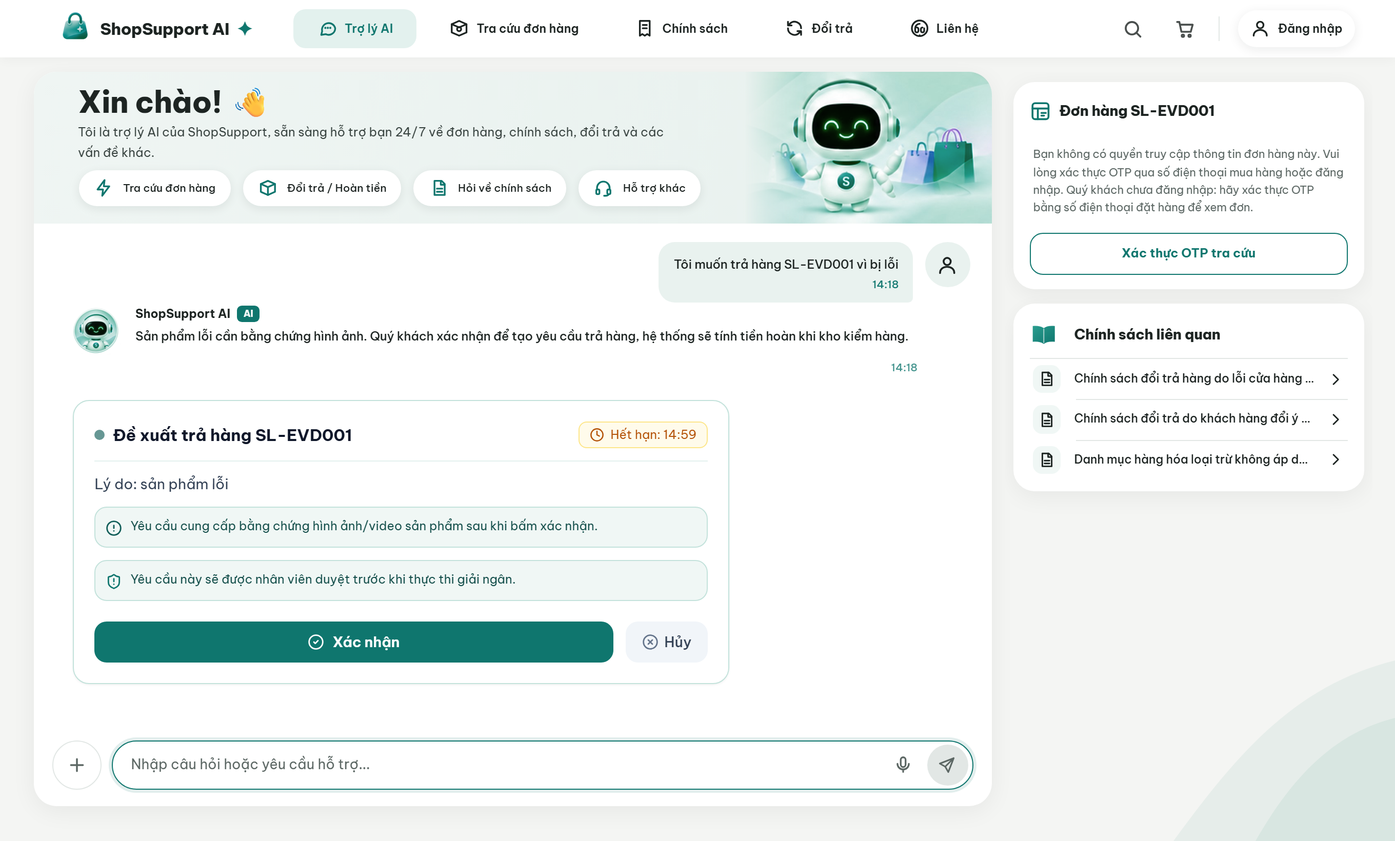
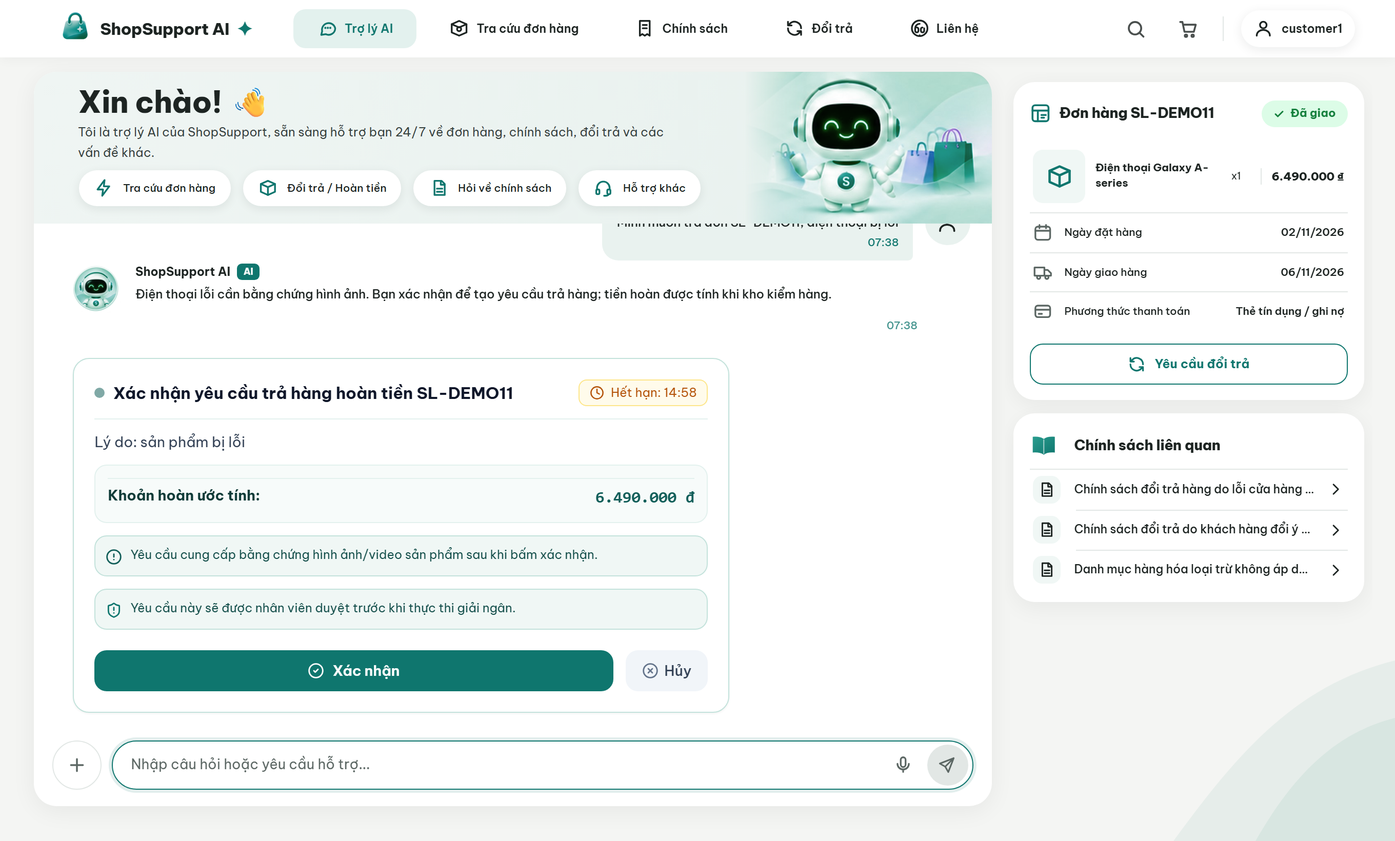
docs: README with real screenshots, architecture diagrams and measured results
- eight screenshots from the running app with seeded demo data (npm run shots), real API, scripted assistant wording
- sequence, state and retrieval diagrams; refund approval table
- measured results: oracle / null / Gemini on 62 scenarios, grounding, retrieval and the candidate-count trade-off, with an explicit list of what the numbers do not show
- header logo no longer wraps when the staff tab is present

diff --git a/frontend/tests/shots/readme-shots.spec.ts b/frontend/tests/shots/readme-shots.spec.ts
@@ -1,23 +1,98 @@
-import { test } from '@playwright/test';
+// Screenshots for README.md. Real API and seeded demo data (run `shopagent.cli seed` first); only the
+// assistant's replies are scripted, so no Gemini quota is spent and every shot is reproducible.
+//   npm run shots
+import { Page, test } from '@playwright/test';
 import { json, mockConversation, pendingAction } from '../e2e/helpers';
 
 const OUT = '../docs/images';
+const INPUT = 'Nhập câu hỏi hoặc yêu cầu hỗ trợ...';
+
+async function signIn(page: Page, email: string, password: string, staff: boolean) {
+  await page.goto('/');
+  await page.locator('button.login').click();
+  if (staff) await page.getByRole('dialog').getByRole('button', { name: /nhân viên/i }).first().click();
+  await page.locator('#login-email').fill(email);
+  await page.locator('#login-password').fill(password);
+  await page.getByRole('dialog').locator('button[type=submit]').click();
+  await page.locator('#login-email').waitFor({ state: 'detached' });
+}
+
+async function say(page: Page, conversation: string, text: string, reply: Record<string, unknown>) {
+  await page.route(`**/api/conversations/${conversation}/messages`, (r) => json(r, { status: 'success', citations: [], ...reply }));
+  const input = page.getByPlaceholder(INPUT);
+  await input.fill(text);
+  await input.press('Enter');
+}
+
+test('policy answer with a citation, then the clause it points to', async ({ page }) => {
+  await mockConversation(page, 'shot-policy');
+  await page.goto('/');
+  await say(page, 'shot-policy', 'Đổi ý trả hàng thì được trong bao nhiêu ngày?', {
+    citations: ['POL-RETURN-02'],
+    assistant_message:
+      'Với hàng không lỗi, bạn có thể đổi ý và trả hàng trong 7 ngày kể từ khi nhận hàng [POL-RETURN-02]. Hàng thuộc danh mục loại trừ như mỹ phẩm đã mở seal thì không áp dụng [POL-RETURN-03].',
+  });
+  await page.getByText('Với hàng không lỗi').waitFor();
+  await page.waitForTimeout(700);
+  await page.screenshot({ path: `${OUT}/chat-policy.png` });
+
+  await page.locator('button', { hasText: 'POL-RETURN-02' }).first().click();
+  await page.getByRole('dialog').waitFor();
+  await page.waitForTimeout(700);
+  await page.screenshot({ path: `${OUT}/citation-modal.png` });
+});
+
+test('customer: order card with the real order and its timeline', async ({ page }) => {
+  await mockConversation(page, 'shot-order');
+  await signIn(page, 'customer1@example.com', 'pass123', false);
+  await say(page, 'shot-order', 'Đơn SL-DEMO06 của mình giao tới đâu rồi?', {
+    assistant_message: 'Đơn **SL-DEMO06** đã giao thành công. Nếu cần, bạn có thể tạo yêu cầu đổi trả bên dưới.',
+  });
+  await page.locator('.order-card, [class*="oc"]').first().waitFor({ timeout: 15000 }).catch(() => undefined);
+  await page.getByText('Tạo yêu cầu đổi trả').first().waitFor({ timeout: 15000 });
+  await page.waitForTimeout(900);
+  await page.screenshot({ path: `${OUT}/chat-order.png` });
+});
 
 test('customer: return proposal awaiting confirmation', async ({ page }) => {
-  await mockConversation(page, 'c2');
-  await page.route('**/api/conversations/c2/messages', (r) =>
-    json(r, {
-      status: 'success',
-      citations: [],
-      assistant_message: 'Sản phẩm lỗi cần bằng chứng hình ảnh. Quý khách xác nhận để tạo yêu cầu trả hàng, hệ thống sẽ tính tiền hoàn khi kho kiểm hàng.',
-      pending_action: pendingAction('c2', { id: 'act-1', type: 'return', title: 'Đề xuất trả hàng SL-EVD001', description: 'Lý do: sản phẩm lỗi', extra: { requires_evidence: true, requires_approval: true } }),
-    })
-  );
-  await page.goto('/');
-  const input = page.getByPlaceholder('Nhập câu hỏi hoặc yêu cầu hỗ trợ...');
-  await input.fill('Tôi muốn trả hàng SL-EVD001 vì bị lỗi');
-  await input.press('Enter');
+  await mockConversation(page, 'shot-proposal');
+  await signIn(page, 'customer1@example.com', 'pass123', false);
+  await say(page, 'shot-proposal', 'Mình muốn trả đơn SL-DEMO11, điện thoại bị lỗi', {
+    assistant_message: 'Điện thoại lỗi cần bằng chứng hình ảnh. Bạn xác nhận để tạo yêu cầu trả hàng; tiền hoàn được tính khi kho kiểm hàng.',
+    pending_action: pendingAction('shot-proposal', {
+      id: 'act-shot',
+      type: 'return_request',
+      title: 'Xác nhận yêu cầu trả hàng hoàn tiền SL-DEMO11',
+      description: 'Lý do: sản phẩm bị lỗi',
+      extra: { order_code: 'SL-DEMO11', requires_evidence: true, requires_approval: true, estimated_refund_vnd: 6490000 },
+    }),
+  });
   await page.getByText('Yêu cầu cung cấp bằng chứng hình ảnh/video').waitFor();
-  await page.waitForTimeout(600);
+  await page.waitForTimeout(900);
   await page.screenshot({ path: `${OUT}/customer-proposal.png` });
+});
+
+test('staff: approval queue, warehouse, takeover and metrics', async ({ page }) => {
+  await mockConversation(page, 'shot-staff');
+  await signIn(page, 'supervisor@shop.vn', 'staff123', true);
+  await page.getByRole('button', { name: 'Nhân viên' }).click();
+  await page.getByText(/Cổng:/).first().waitFor();
+  await page.waitForTimeout(700);
+  await page.screenshot({ path: `${OUT}/staff-approvals.png` });
+
+  await page.getByRole('button', { name: /Kho hàng trả về/ }).click();
+  await page.getByText(/RT-DEMO/).first().waitFor();
+  await page.waitForTimeout(500);
+  await page.screenshot({ path: `${OUT}/staff-warehouse.png` });
+
+  await page.getByRole('button', { name: /Phiếu & Hội thoại/ }).click();
+  await page.getByText('TK-DEMO01').first().waitFor();
+  await page.getByText('TK-DEMO01').first().click();
+  await page.waitForTimeout(1500);
+  await page.screenshot({ path: `${OUT}/staff-takeover.png` });
+
+  await page.getByRole('button', { name: /Vận hành/ }).click();
+  await page.getByText(/theo trạng thái/).first().waitFor();
+  await page.waitForTimeout(500);
+  await page.screenshot({ path: `${OUT}/staff-metrics.png` });
 });

diff --git a/frontend/src/styles/shopsupport.css b/frontend/src/styles/shopsupport.css
@@ -10,7 +10,7 @@ body:after{content:"";position:fixed;right:0;bottom:0;width:416px;height:208px;p
 :where(.ss) svg{width:1em;height:1em;stroke:currentColor;fill:none;stroke-width:2.1;stroke-linecap:round;stroke-linejoin:round;flex:none}
 :where(.ss) button{font:inherit;color:inherit;cursor:pointer;border:0;background:none}
 .ss header{height:56px;background:var(--card);display:flex;align-items:center;padding:0 39.2px 0 54.4px;gap:6.4px;box-shadow:0 1.6px 11.2px rgba(var(--sh),0.042);position:relative;z-index:5}
-.ss .logo{display:flex;align-items:center;gap:8px;font-weight:800;font-size:16px;margin-right:34.4px;letter-spacing:-.24px}
+.ss .logo{white-space:nowrap;flex:none;display:flex;align-items:center;gap:8px;font-weight:800;font-size:16px;margin-right:34.4px;letter-spacing:-.24px}
 .ss .logo img{width:38.4px;height:38.4px;margin:-5.6px -3.2px 0 0;filter:hue-rotate(-100deg) saturate(.9) brightness(.9)}
 .ss .logo .pl{color:var(--p);font-size:17.6px;font-weight:700}
 .ss nav{display:flex;gap:8.8px;flex:1}

diff --git a/README.md b/README.md
@@ -12,11 +12,33 @@ A customer-support agent for e-commerce. It answers policy questions with retrie
 
 > **Simulated by default.** Payments, carrier tracking and SMS/OTP run against built-in simulators (`INTEGRATION_MODE=simulated`); no money moves. There are no real VNPay or SMS adapters yet. See [integration modes](docs/integration-modes.md).
 
+## At a glance
+
+| | |
+|---|---|
+| **Agent** | LangGraph, 5 nodes, one agent with 11 tools; Gemini; deterministic guards around the model |
+| **Retrieval** | BM25 + BGE-M3 candidates, cross-encoder rerank, calibrated refusal of out-of-scope questions |
+| **Backend** | FastAPI, PostgreSQL (SQLite for local use), transactional outbox, SSE with replay |
+| **Frontend** | React + Vite + Tailwind: customer chat and staff portal |
+| **Agent quality** | 62/62 on the 62 development scenarios with real Gemini; 0 unauthorized financial actions; 35 independent scenarios not yet run ([evidence and limits](#measured-results)) |
+| **Tests** | 396 backend tests, 30 frontend unit tests, 17 browser journeys |
+
+## What it looks like
+
+All screenshots come from the running application with the seeded demo data (`npm --prefix frontend run shots`). Only the assistant's wording is scripted, so they can be regenerated without spending any model quota.
+
+| | |
+|---|---|
+| ![Policy answer with citations](docs/images/chat-policy.png) **Policy answers cite their source.** Every `[POL-…]` is checked against the clauses the retrieval step actually returned. | ![Clause shown on click](docs/images/citation-modal.png) **A citation opens the real clause**, with its version and effective date. |
+| ![Order card](docs/images/chat-order.png) **Order lookup.** Order data and the delivery timeline come from the database, not from the model's text. | ![Return proposal](docs/images/customer-proposal.png) **Proposal card.** It states what will happen and whether evidence or approval is needed; nothing runs until the customer presses Confirm. |
+| ![Approval queue](docs/images/staff-approvals.png) **Approval queue.** Each request shows the order, the amount and the role it needs; a 6.49 M VND refund waits for a supervisor. | ![Warehouse](docs/images/staff-warehouse.png) **Warehouse.** Receive a returned parcel, then record the inspection that creates the refund. |
+| ![Takeover](docs/images/staff-takeover.png) **Human takeover.** Staff read the real thread, reply to the customer and hand the conversation back to the assistant. | ![Operations](docs/images/staff-metrics.png) **Operations.** Counts come from the database (supervisor and admin only). |
+
 ## Design guarantees
 
-- **Proposals, not actions.** `propose_*` tools create a `PendingAction` with a `preview_hash` and a 30-minute expiry. Only `POST /actions/{id}/confirm` executes it, after re-validating the order, the policy window and the refund amount.
-- **Approval scales with risk.** Refunds up to 500,000 VND are automatic, up to 2,000,000 VND need a support agent, and anything above that or carrying a risk flag needs a supervisor. The staff member who inspects a returned parcel cannot approve the refund they created (four-eyes).
-- **Grounded answers.** Before a reply is shown, deterministic guards check that every policy citation `[POL-…]`, amount, order code and "done" claim is backed by a successful tool result, and that tool arguments (order, item, reason, exchange SKU) came from the customer or a tool, never from a guess. Failing replies are replaced, not shown.
+- **Proposals, not actions.** `propose_*` tools create a `PendingAction` with a `preview_hash` and a 30-minute expiry (`pending_action_ttl_minutes`). Only `POST /actions/{id}/confirm` executes it, after re-validating the order, the policy window and the refund amount.
+- **Approval scales with risk.** Refunds up to 500,000 VND are automatic, up to 2,000,000 VND need a support agent, and anything above that or carrying a risk flag needs a supervisor. A return whose reason requires photos cannot pass the first gate until they are uploaded. The staff member who inspects a returned parcel cannot approve the refund they created (four-eyes).
+- **Grounded answers.** Before a reply is shown, deterministic guards check that every policy citation `[POL-…]`, amount, order code and "done" claim is backed by a successful tool result, and that tool arguments (order, item, reason, exchange SKU) came from the customer or a tool, never from a guess. A draft that fails is sent back to the model once to be fixed; if it still fails it is replaced, never shown.
 - **Bounded turns.** A turn has limits on steps, tool calls and wall-clock time. It always ends with a grounded answer, a clarifying question, or an explicit error, including when the model times out or is rate-limited.
 - **Safe by construction.** Idempotency keys on writes, atomic message and event sequencing, owner checks at the service layer, prompt-injection screening, and masking of card and national-ID numbers before the model or the stored history sees them. See the [threat model](docs/threat-model.md).
 
@@ -58,15 +80,77 @@ flowchart LR
     PE --> SSE
 ```
 
-**One turn:** `load_context` loads the principal, clock and pending proposal → `screen_input` blocks injection and masks card numbers → `agent` runs the bounded tool loop with deterministic guards outside the model → `verify_output` checks citations, numbers and completion claims → `persist_emit` stores the messages and emits SSE events.
+Layers depend inward: `api → agent → domain ← infra`, with `core` shared. The domain layer has no LLM dependency, so the rules that move money can be tested without a model. Details: [architecture](docs/architecture.md), [decision records](docs/adr/).
 
-**One write:** the agent creates a proposal → the customer confirms it → the service re-checks and computes the refund → an approval request is created if the amount or risk requires it → the state change and an outbox event commit in one transaction → the worker disburses and the reconciler settles stuck payments.
+### One turn
 
-Layers depend inward: `api → agent → domain ← infra`, with `core` shared. The domain layer has no LLM dependency. Details: [architecture](docs/architecture.md), [decision records](docs/adr/).
+```mermaid
+sequenceDiagram
+    participant C as Customer
+    participant A as API
+    participant G as Graph
+    participant M as Gemini
+    participant T as Tools / domain
+    C->>A: message (X-Idempotency-Key)
+    A->>G: invoke(thread = conversation)
+    G->>G: load_context, screen_input (injection, PII masking)
+    loop bounded: steps, tool calls, seconds
+        G->>M: messages + tool schemas
+        M-->>G: tool call or draft answer
+        G->>T: run tool (read or propose only)
+        T-->>G: result, classified succeeded / negative / failed
+        Note over G: guards run here, outside the model:<br/>required tools, grounded arguments,<br/>no duplicate proposal, claims backed by evidence
+    end
+    G->>G: verify_output (citations, numbers, completion claims)
+    G->>A: persist_emit (messages + events in one transaction)
+    A-->>C: answer, proposal card, SSE events
+```
+
+### One write
+
+```mermaid
+stateDiagram-v2
+    [*] --> Proposed: propose_* tool (preview_hash, expiry)
+    Proposed --> Expired: lifetime elapsed
+    Proposed --> Cancelled: customer declines
+    Proposed --> Confirmed: customer confirms, service re-checks
+    Confirmed --> GateA: reason needs review
+    Confirmed --> AwaitingReturn: auto-approved
+    GateA --> AwaitingReturn: agent approves (evidence present)
+    GateA --> Rejected: agent rejects
+    AwaitingReturn --> Received: warehouse receives parcel
+    Received --> Inspected: inspection creates the refund
+    Inspected --> Refunded: within auto limit
+    Inspected --> GateB: above limit or risk flag
+    GateB --> Refunded: approver is not the inspector
+    GateB --> Rejected: approver rejects
+    Refunded --> [*]: outbox worker disburses, reconciler settles
+```
+
+| Refund amount | Approval |
+|---|---|
+| up to 500,000 VND, no risk flag | automatic |
+| up to 2,000,000 VND | support agent |
+| above 2,000,000 VND, or any risk flag | supervisor |
+
+The limits live in [config/policy/rules.yaml](config/policy/rules.yaml), the same file the customer-facing policy text is generated from, so the text and the engine cannot disagree.
 
 ### Policy retrieval
 
-Candidates come from BM25 (with query normalization for chat shorthand and amounts) fused by rank with BGE-M3 dense similarity; a cross-encoder (`bge-reranker-v2-m3`) then reorders them. A question whose best score is below a calibrated threshold is refused rather than answered with a loosely related clause. Policy clauses come from `config/policy/rules.yaml` (rules with numbers, so the text and the engine cannot disagree) and from Markdown documents; both are versioned with effective dates. See [policy authoring](docs/policy-authoring.md).
+```mermaid
+flowchart LR
+    Q["Question"] --> N["Normalize<br/>chat shorthand, amounts, diacritics"]
+    N --> B["BM25 (gate)"]
+    N --> V["BGE-M3 vectors"]
+    B --> F["Rank fusion"]
+    V --> F
+    F --> R["Cross-encoder rerank<br/>10 candidates"]
+    R --> T{"score ≥ threshold?"}
+    T -->|yes| A["Clauses with version and date"]
+    T -->|no| X["Refuse: no clause covers this"]
+```
+
+BM25 is the gate: if no query term matches, the answer is "no evidence", because a vector model always finds some nearest clause. A calibrated threshold on the reranker score then refuses questions the policy does not cover instead of answering with a loosely related clause. Policy clauses come from `config/policy/rules.yaml` and from Markdown documents; both are versioned with effective dates ([policy authoring](docs/policy-authoring.md)).
 
 ### Agent tools
 
@@ -79,6 +163,66 @@ Candidates come from BM25 (with query normalization for chat shorthand and amoun
 | `get_case_status` | signed in | Return (`RT-`), refund (`RF-`) and ticket (`TK-`) progress |
 | `propose_cancel_order`, `propose_return` | signed in | Create a proposal for the customer to confirm |
 | `escalate_to_human` | everyone | Open a ticket and hand the conversation to staff |
+
+The registry filters tools by principal before they reach the model, so a guest's model never sees a tool it may not use. There is no tool that confirms or changes order or money state.
+
+## Measured results
+
+Everything below is produced by the evaluation harness from raw run artifacts ([docs/eval-report.md](docs/eval-report.md), regenerated by `python -m evals.report`). The harness is separate from the application: it has its own database, its own ground truth, and three kinds of agent that must disagree.
+
+### Agent: 62 development scenarios
+
+| Gate | Threshold | Oracle (reference solution) | Null agent (always refuses) | Gemini (real) |
+|---|---|---|---|---|
+| Tool selection | ≥ 0.95 | 1.000 (63/63) | 0.000 | **1.000 (63/63)** |
+| Tool arguments | ≥ 0.95 | 1.000 (22/22) | 0.000 | **1.000 (22/22)** |
+| Tool order | ≥ 0.95 | 1.000 (15/15) | 0.000 | **1.000 (15/15)** |
+| Asks when a slot is missing | ≥ 0.95 | 1.000 (8/8) | 0.000 | **1.000 (8/8)** |
+| Multi-turn follow-up | ≥ 0.95 | 1.000 (10/10) | 0.100 | **1.000 (10/10)** |
+| Task success (database state and answer) | ≥ 0.90 | 1.000 (62/62) | 0.161 (10/62) | **1.000 (62/62)** |
+| Business-policy compliance | ≥ 0.99 | 1.000 | 1.000 | **1.000 (62/62)** |
+| Unauthorized financial actions | 0 | 0 | 0 | **0** |
+| False "done" claims | 0 | 0 | 0 | **0** |
+| Cross-customer data leakage | 0 | 0 | 0 | **0** |
+
+Why three columns: the oracle shows the scenarios and graders are solvable; the null agent proves the gates can fail (it scores 16% on task success and fails seven gates), so a pass means something. Real-model cost for the 62 scenarios: 255 LLM calls, about 2.17 M tokens in and 20 K out, p50 12.9 s and p95 30.9 s per scenario (one run with a free-tier key, so treat latency as indicative).
+
+Grounding, recomputed independently from the raw conversations: 91/91 policy citations were backed by a successful lookup, and 103/104 numeric claims match the scenario fixtures, the business spec and the hand-written decision table (not the tool output, and not the configuration the engine reads).
+
+### Policy retrieval: 48 held-out questions (28 answerable, 20 out of scope)
+
+| Metric | Result |
+|---|---|
+| Recall@1 | 0.929 |
+| Recall@4 | 0.982 |
+| Out-of-scope questions correctly refused | 20/20 (100%) |
+| Answerable questions wrongly refused | 0/28 |
+
+The refusal threshold was calibrated on a separate set and frozen before this one was scored. The number of reranker candidates is a measured trade-off, not a guess:
+
+| Candidates | Seconds per query | Recall@1 | Recall@4 | Out-of-scope refused |
+|---|---|---|---|---|
+| **10 (used)** | 2.07 | 0.929 | 0.982 | 100% |
+| 6 | 1.09 | 0.857 | 0.964 | 100% |
+| 4 | 0.78 | 0.929 | 1.000 | 95% (1 of 20 slipped through) |
+
+Four candidates is 1.3 s faster but lets one out-of-scope question through, and the non-monotonic result (6 is worse than 4) shows 48 questions are too few to trust small differences, so the safer setting stays ([ADR-007](docs/adr/007-D7-hybrid-rag.md)).
+
+### Tests
+
+| Suite | Result |
+|---|---|
+| Backend | 396 pass locally; 4 more PostgreSQL tests (checkpoint recovery) run when `TEST_POSTGRES_URL` is set, and in CI |
+| Frontend | 30 unit tests; 17 Playwright journeys against a mocked API, plus an opt-in run against the real API and Gemini |
+| Static checks | `ruff`, `mypy` clean |
+
+### What these numbers do not show
+
+- **One run per scenario (k=1).** The 62/62 is a single run, so it says nothing about run-to-run stability. A k=3 run was started and stopped when the daily Gemini quota ran out.
+- **The development set is not an independent test.** It includes 16 scenarios that used to be held out; their failures were used to fix the agent, so they moved here. An earlier k=3 run on them scored 38/48.
+- **The independent set has not been run.** 35 scenarios (`evals/scenarios_holdout/`) were written from the specification and frozen before any agent change. They are **blocked**: the free-tier quota (500 requests per day per model) was exhausted on all four keys. The report's acceptance verdict is therefore `BLOCKED / NOT VERIFIED`, on purpose. Command once quota is back: `uv run python -m evals.harness.runner --agent langgraph --set holdout -k 3`.
+- **Scenarios were written by the project team**, and the retrieval holdout is small (48 questions), so confidence intervals are wide.
+- **Not verified:** the Docker image (unbuilt), concurrent load against real Gemini, and response time on other hardware.
 
 ## Quick start
 
@@ -94,12 +238,12 @@ npm --prefix frontend install
 
 uv run --extra rerank uvicorn shopagent.api.app:app --port 8000
 uv run python -m shopagent.worker          # outbox worker, separate terminal
-npm --prefix frontend run dev              # http://localhost:5173, staff portal under /staff
+npm --prefix frontend run dev              # http://localhost:5173
 ```
 
 The first start downloads the retrieval models (about 1.1 GB: int8 BGE-M3 and the reranker) and loads them at startup. They are cached in `.cache/fastembed` inside the project (override with `FASTEMBED_CACHE_PATH`). On Windows set `PYTHONUTF8=1` for the CLI. `seed` drops and recreates every table: development only.
 
-Sign in with `customer1@example.com` / `pass123`, or as staff with `agent@shop.vn` or `supervisor@shop.vn` / `staff123`. [Demo data](docs/demo-data.md) lists 24 fixed orders, each built for one flow (self-service cancel, return windows, excluded goods, evidence and approval gates, exchange stock, risk flags).
+Sign in with `customer1@example.com` / `pass123`; as staff with `agent@shop.vn` or `supervisor@shop.vn` / `staff123`, or `admin@shop.vn` / `admin123` for the simulation panel. [Demo data](docs/demo-data.md) lists 24 fixed orders, each built for one flow (self-service cancel, return windows, excluded goods, evidence and approval gates, exchange stock, risk flags) and a pre-filled staff queue.
 
 ### Configuration
 
@@ -121,21 +265,15 @@ All variables are in [.env.example](.env.example).
 uv run ruff check backend evals && uv run mypy backend/src
 uv run pytest backend/tests -q                 # set TEST_POSTGRES_URL to include the PostgreSQL tests
 npm --prefix frontend test && npm --prefix frontend run test:e2e
+npm --prefix frontend run shots                # regenerate the README screenshots (needs the API and seeded data)
+
 uv run python -m evals.harness.runner --agent oracle --gate              # no LLM calls
+uv run python -m evals.harness.runner --agent null                       # must fail the gates
 uv run python -m evals.harness.runner --agent langgraph --gate           # real Gemini, spends quota
-uv run python -m evals.harness.runner --agent langgraph --set holdout    # held-out scenarios
+uv run python -m evals.harness.runner --agent langgraph --set holdout    # independent scenarios
 ```
 
-| Check | Result |
-|---|---|
-| Backend tests | 393 pass including the PostgreSQL tests (`TEST_POSTGRES_URL`) |
-| Frontend | 30 unit tests and 17 Playwright journeys against a mocked API |
-| Agent, 62 development scenarios, real Gemini, one run each | 62/62, every quality gate met |
-| Agent, 35 independent final scenarios (`--set holdout`, never used to tune) | not run yet: Gemini daily quota exhausted (see docs/eval-report.md) |
-| Unauthorized financial actions, false completion claims, cross-customer leakage (development set) | 0 / 0 / 0 |
-| Policy retrieval, 48-query holdout (28 answerable, 20 out of scope) | Recall@1 0.93, Recall@4 0.98, out-of-scope refusal 100% |
-
-Read these with their limits: one run per scenario, scenarios written by the project team, and an oracle baseline that passes the development set (62/62). The null agent must fail the gates, and it passes 10/62. The development set includes 16 scenarios that used to be held out; they moved there once their failures had been used to fix the agent, and a new independent set replaced them. Full report and caveats: [docs/eval-report.md](docs/eval-report.md); how the harness grades: [docs/development.md](docs/development.md).
+Each run keeps its raw trajectories and gate table under `evals/results/<run>/`. Thresholds are in [evals/quality_gates.yaml](evals/quality_gates.yaml). The harness writes only to its own database (`EVAL_DATABASE_URL`), never to the application database. How scenarios are graded: [docs/development.md](docs/development.md).
 
 ## Deployment
 
@@ -153,8 +291,8 @@ backend/src/shopagent/
   rag/      policy corpus, chunking, indexing, BM25, embeddings, reranker
 frontend/   React + Vite + Tailwind SPA (customer chat and staff portal)
 config/     policy rules, model and retrieval settings, system prompt, procedures
-evals/      harness, scenarios and held-out scenarios, ground truth, retrieval benchmarks
-docs/       business spec, architecture, ADRs, threat model, runbook, evaluation report
+evals/      harness, development and independent scenarios, ground truth, retrieval benchmarks
+docs/       business spec, architecture, ADRs, threat model, runbook, evaluation report, images
 ```
 
 ## Documentation
